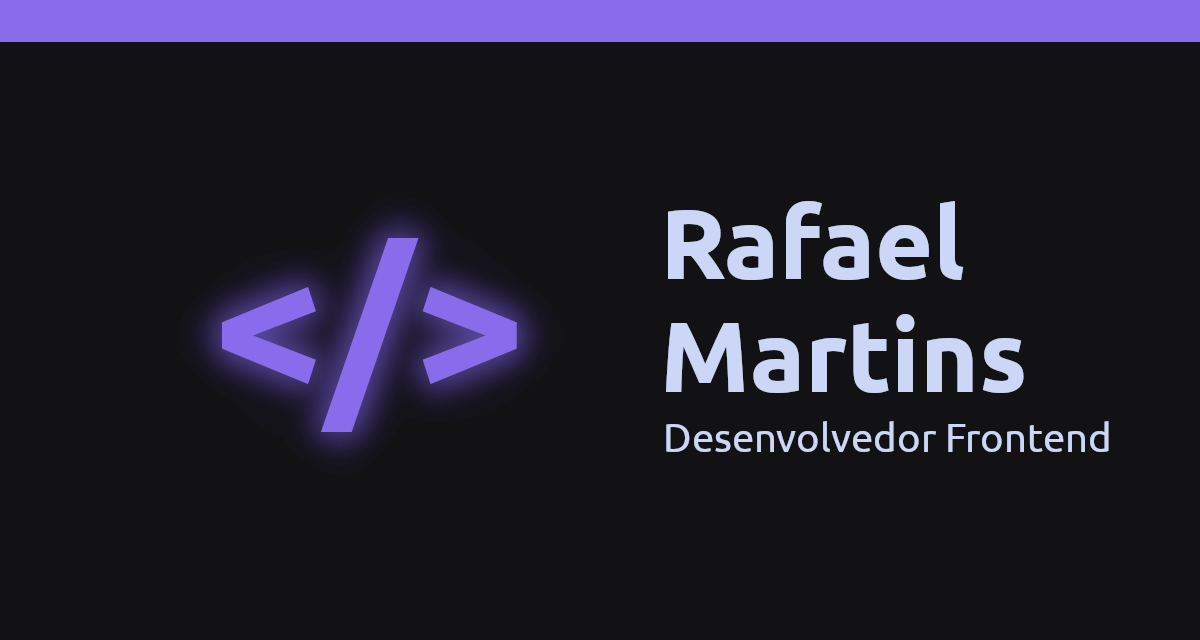
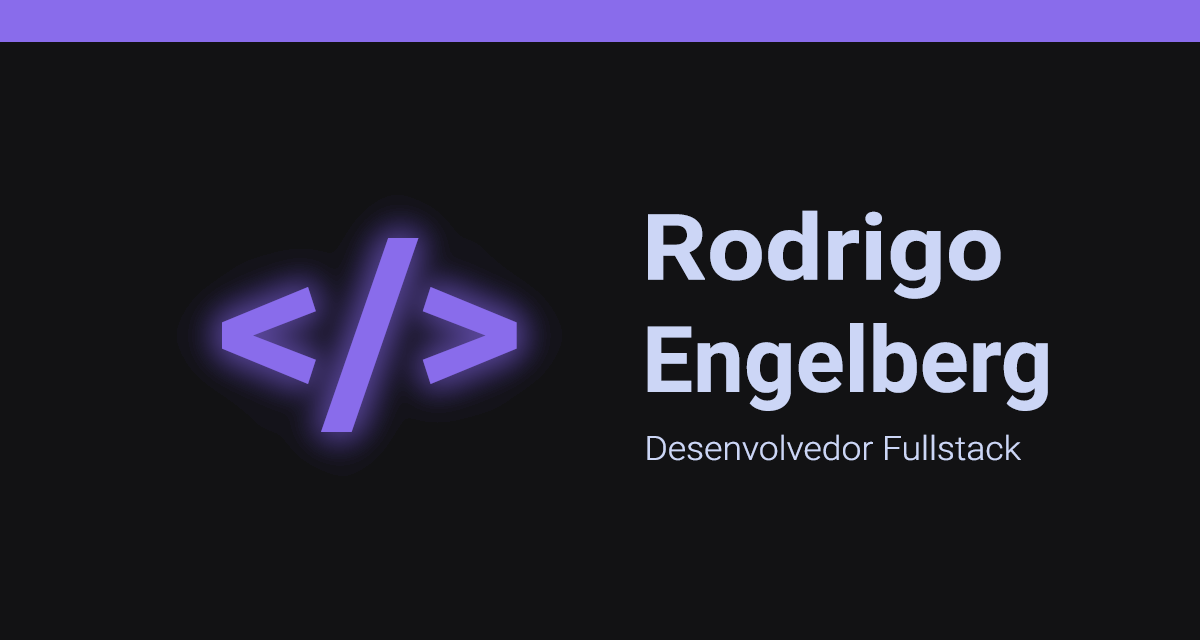
Ajustes de SEO site

Changed region(s): [[0.5242, 0.3125, 0.925, 0.7188]]

diff --git a/src/components/SEO/index.tsx b/src/components/SEO/index.tsx
@@ -14,7 +14,7 @@ const SEO = ({ title, description }: SEOProps) => {
         name="description"
         content={
           description ||
-          'Desenvolvedor Frontend | ReactJS | Next.js | JavaScript | TypeScript.'
+          'Desenvolvedor Fullstack | Java | Angular | ReactJS | Next.js | JavaScript | TypeScript.'
         }
       />
 
@@ -25,7 +25,7 @@ const SEO = ({ title, description }: SEOProps) => {
         property="og:description"
         content={
           description ||
-          'Desenvolvedor Frontend | ReactJS | Next.js | JavaScript | TypeScript.'
+          'Desenvolvedor Fullstack | Java | Angular | ReactJS | Next.js | JavaScript | TypeScript.'
         }
       />
       <meta property="og:url" content={SITE_URL} />
@@ -37,7 +37,7 @@ const SEO = ({ title, description }: SEOProps) => {
         name="twitter:description"
         content={
           description ||
-          'Desenvolvedor Frontend | ReactJS | Next.js | JavaScript | TypeScript.'
+          'Desenvolvedor Fullstack | Java | Angular | ReactJS | Next.js | JavaScript | TypeScript.'
         }
       />
       <meta name="twitter:url" content={SITE_URL} />
